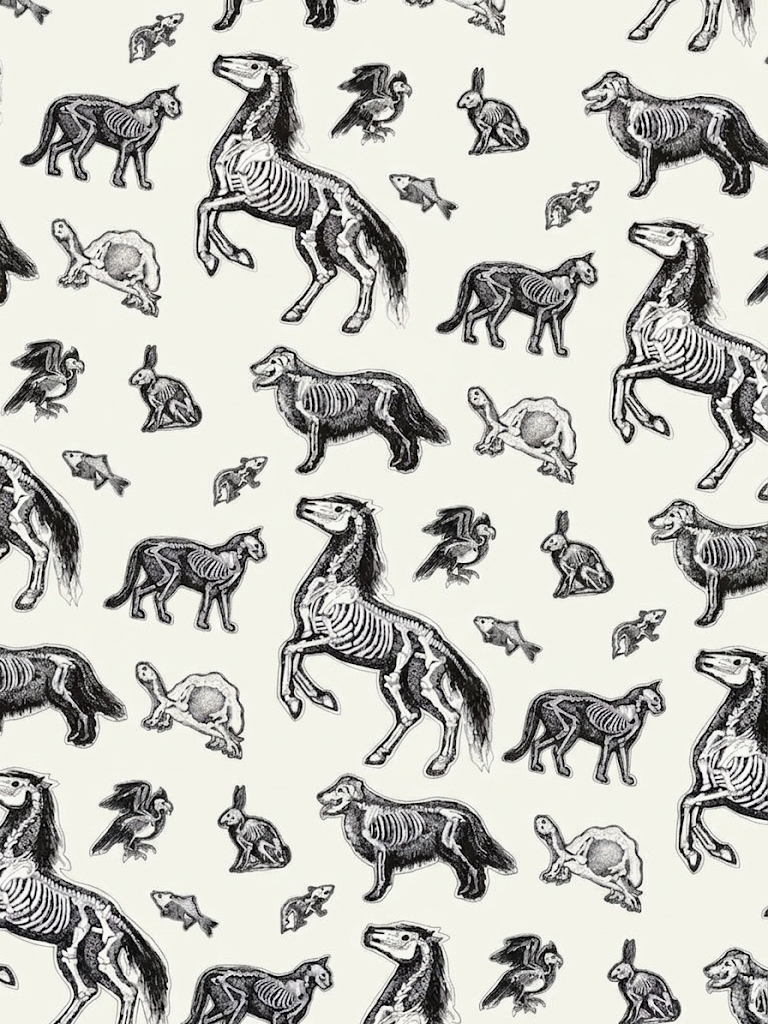
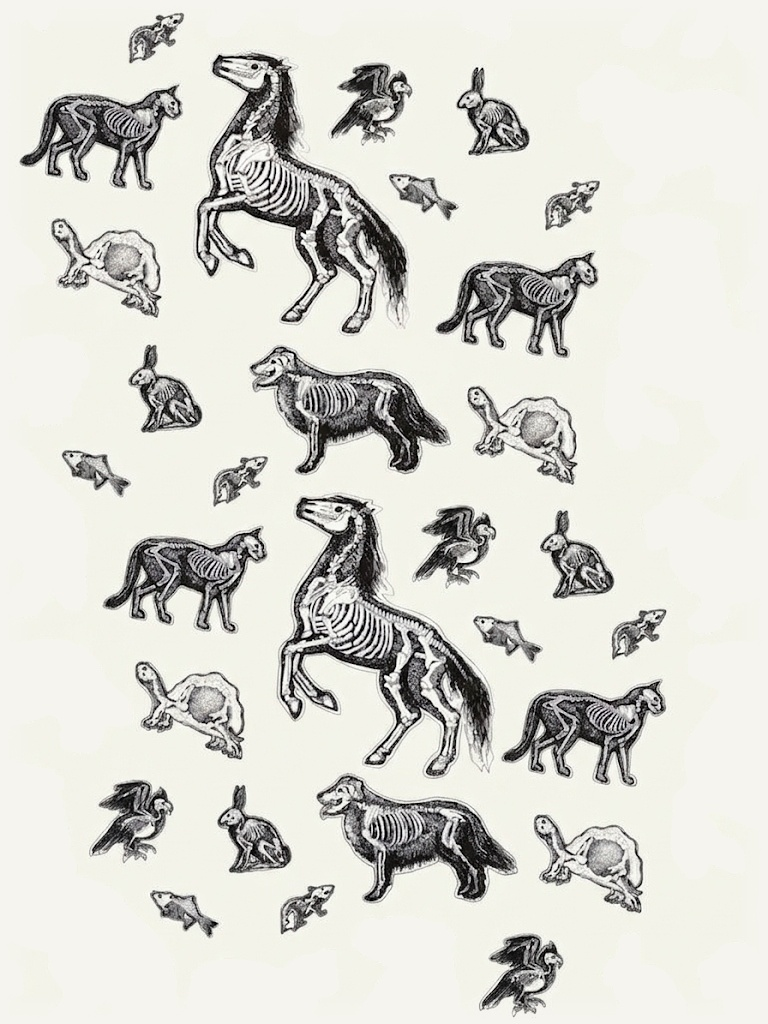
feat(ui): resize background pattern to 380px and make seamless with border inpainting

diff --git a/css/dashboard.css b/css/dashboard.css
@@ -2718,9 +2718,9 @@ html[data-theme='dark'] .roomly-theme-sun {
   position: fixed;
   inset: 0;
   background-image: var(--roomly-login-bg-image);
-  background-repeat: no-repeat;
-  background-position: center center;
-  background-size: cover;
+  background-repeat: repeat;
+  background-position: center top;
+  background-size: 380px auto;
   opacity: var(--roomly-login-bg-opacity);
   pointer-events: none;
   z-index: -1;
@@ -2729,7 +2729,7 @@ html[data-theme='dark'] .roomly-theme-sun {
 [data-theme='dark'] .roomly-login-page {
   --roomly-primary: #75d1ff;
   --roomly-secondary: #5ed7ee;
-  --roomly-background: #07111f;
+  --roomly-background: #131d38;
   --roomly-surface: #101c2c;
   --roomly-surface-low: #111f33;
   --roomly-surface-container: #17324c;

diff --git a/ui-handoff/css/dashboard.css b/ui-handoff/css/dashboard.css
@@ -2718,9 +2718,9 @@ html[data-theme='dark'] .roomly-theme-sun {
   position: fixed;
   inset: 0;
   background-image: var(--roomly-login-bg-image);
-  background-repeat: no-repeat;
-  background-position: center center;
-  background-size: cover;
+  background-repeat: repeat;
+  background-position: center top;
+  background-size: 380px auto;
   opacity: var(--roomly-login-bg-opacity);
   pointer-events: none;
   z-index: -1;
@@ -2729,7 +2729,7 @@ html[data-theme='dark'] .roomly-theme-sun {
 [data-theme='dark'] .roomly-login-page {
   --roomly-primary: #75d1ff;
   --roomly-secondary: #5ed7ee;
-  --roomly-background: #07111f;
+  --roomly-background: #131d38;
   --roomly-surface: #101c2c;
   --roomly-surface-low: #111f33;
   --roomly-surface-container: #17324c;

diff --git a/index.html b/index.html
@@ -15,7 +15,7 @@
   <link rel="stylesheet" href="css/styles.css?v=20260914-login-language-1">
   <link rel="stylesheet" href="modules/download/style.css">
   <link rel="stylesheet" href="ui-handoff/templates/booking/style.css?v=20260915-user-ui-2">
-  <link rel="stylesheet" href="ui-handoff/css/dashboard.css?v=20260916-login-bg-cover-1">
+  <link rel="stylesheet" href="ui-handoff/css/dashboard.css?v=20260916-login-bg-seamless-1">
   <!-- Staff screens still render from templates/, which owns these styles. Kept last so
        the occurrence rules are not overridden by the member UI sheets above. -->
   <link rel="stylesheet" href="templates/booking/style.css?v=20260915-occurrences-2">

diff --git a/ui-handoff/index.html b/ui-handoff/index.html
@@ -15,7 +15,7 @@
   <link rel="stylesheet" href="css/styles.css?v=20260914-login-language-1">
   <link rel="stylesheet" href="modules/download/style.css">
   <link rel="stylesheet" href="ui-handoff/templates/booking/style.css?v=20260915-user-ui-2">
-  <link rel="stylesheet" href="ui-handoff/css/dashboard.css?v=20260916-login-bg-cover-1">
+  <link rel="stylesheet" href="ui-handoff/css/dashboard.css?v=20260916-login-bg-seamless-1">
   <!-- Staff screens still render from templates/, which owns these styles. Kept last so
        the occurrence rules are not overridden by the member UI sheets above. -->
   <link rel="stylesheet" href="templates/booking/style.css?v=20260915-occurrences-2">
